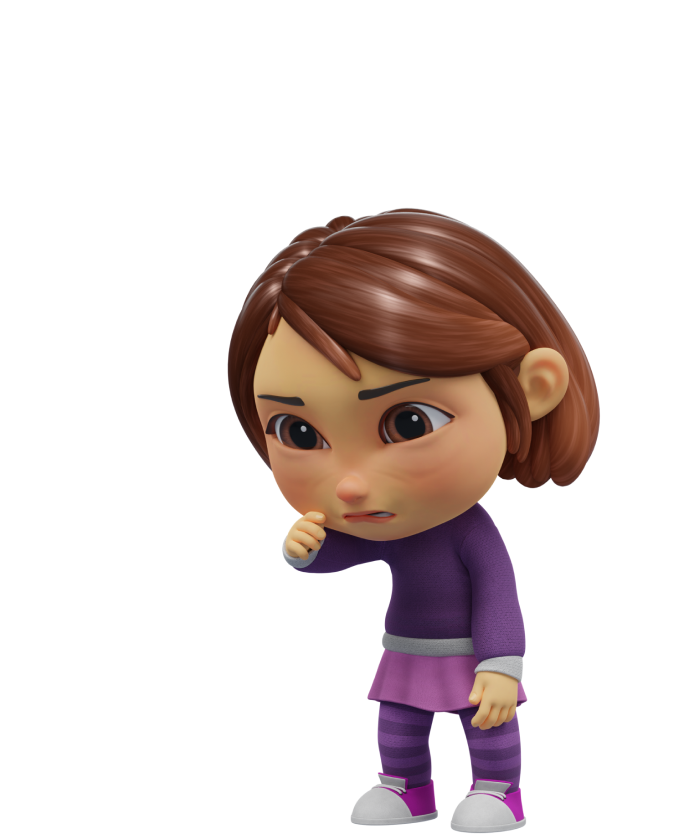
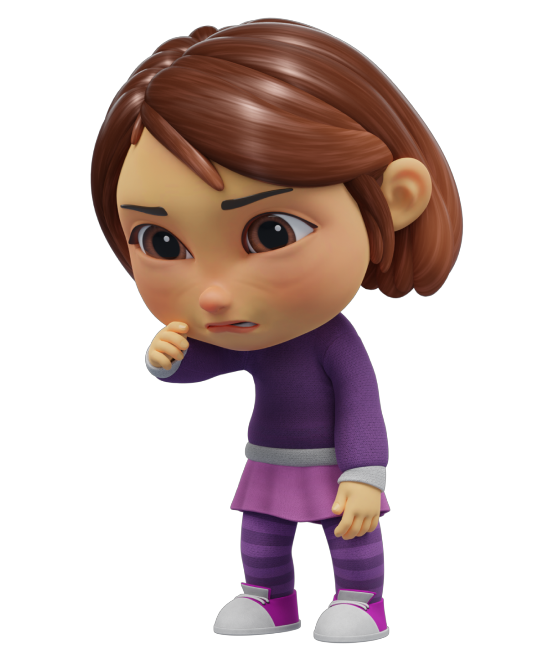
fix images for mobile

diff --git a/style.css b/style.css
@@ -279,7 +279,7 @@ section#public {
 
 
 div.public-img img {
-    width: 40rem;
+    width: 30rem;
     filter: drop-shadow(0px 0px 15px rgba(0, 0, 0, 0.466));
 }
 
@@ -316,11 +316,12 @@ div.public-txt {
 
 @media screen and (max-width: 1347px) {
     div.public-img img {
-        width: 20rem;
+        width: 15rem;
     }
 }
 
 @media screen and (max-width: 900px) {
+
     #public {
         flex-direction: column;
         padding: 2em;
@@ -334,6 +335,7 @@ div.public-txt {
     }
 
     #impactos {
+        margin-bottom: 10rem;
         flex-direction: column;
         padding: 2em;
         text-align: center;
@@ -395,13 +397,13 @@ div.problema-txt {
 div.problema-img img {
     object-fit: cover;
     object-position: 50% 10%;
-    width: 40rem;
+    width: 30rem;
     filter: drop-shadow(0px 0px 15px rgba(0, 0, 0, 0.466));
 }
 
 @media screen and (max-width: 1347px) {
     div.problema-img img {
-        width: 20rem;
+        width: 15rem;
     }
 }
 
@@ -430,14 +432,14 @@ div.impactos-txt {
 }
 
 div.impactos-img img {
-    width: 40rem;
+    width: 25rem;
     filter: drop-shadow(0px 0px 15px rgba(0, 0, 0, 0.466));
     padding-bottom: 5em;
 }
 
 @media screen and (max-width: 1347px) {
     div.impactos-img img {
-        width: 30rem;
+        width: 15rem;
     }
 }
 
@@ -468,13 +470,13 @@ div.gamification-txt {
 }
 
 div.gamification-img img {
-    width: 40rem;
+    width: 30rem;
     filter: drop-shadow(0px 0px 15px rgba(0, 0, 0, 0.466));
 }
 
 @media screen and (max-width: 1347px) {
     div.gamification-img img {
-        width: 20rem;
+        width: 15rem;
     }
 }
 
@@ -503,13 +505,13 @@ div.objetivo-txt {
 }
 
 div.objetivo-img img {
-    width: 30rem;
+    width: 20rem;
     filter: drop-shadow(0px 0px 15px rgba(0, 0, 0, 0.466));
 }
 
 @media screen and (max-width: 1347px) {
     div.objetivo-img img {
-        width: 24rem;
+        width: 15rem;
     }
 }
 
@@ -539,13 +541,13 @@ div.positivos-txt {
 }
 
 div.positivos-img img {
-    width: 30rem;
+    width: 20rem;
     filter: drop-shadow(0px 0px 15px rgba(0, 0, 0, 0.466));
 }
 
 @media screen and (max-width: 1347px) {
     div.positivos-img img {
-        width: 24rem;
+        width: 15rem;
     }
 }
 
